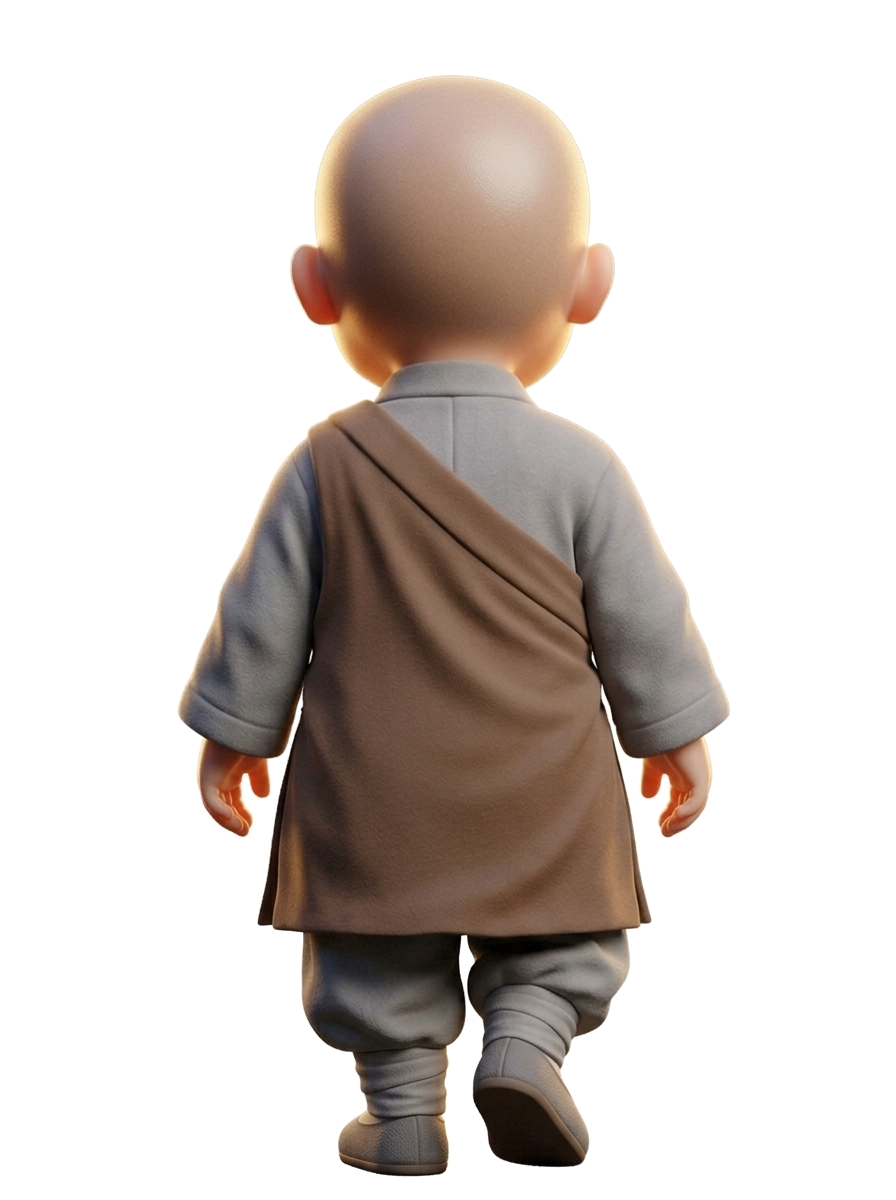
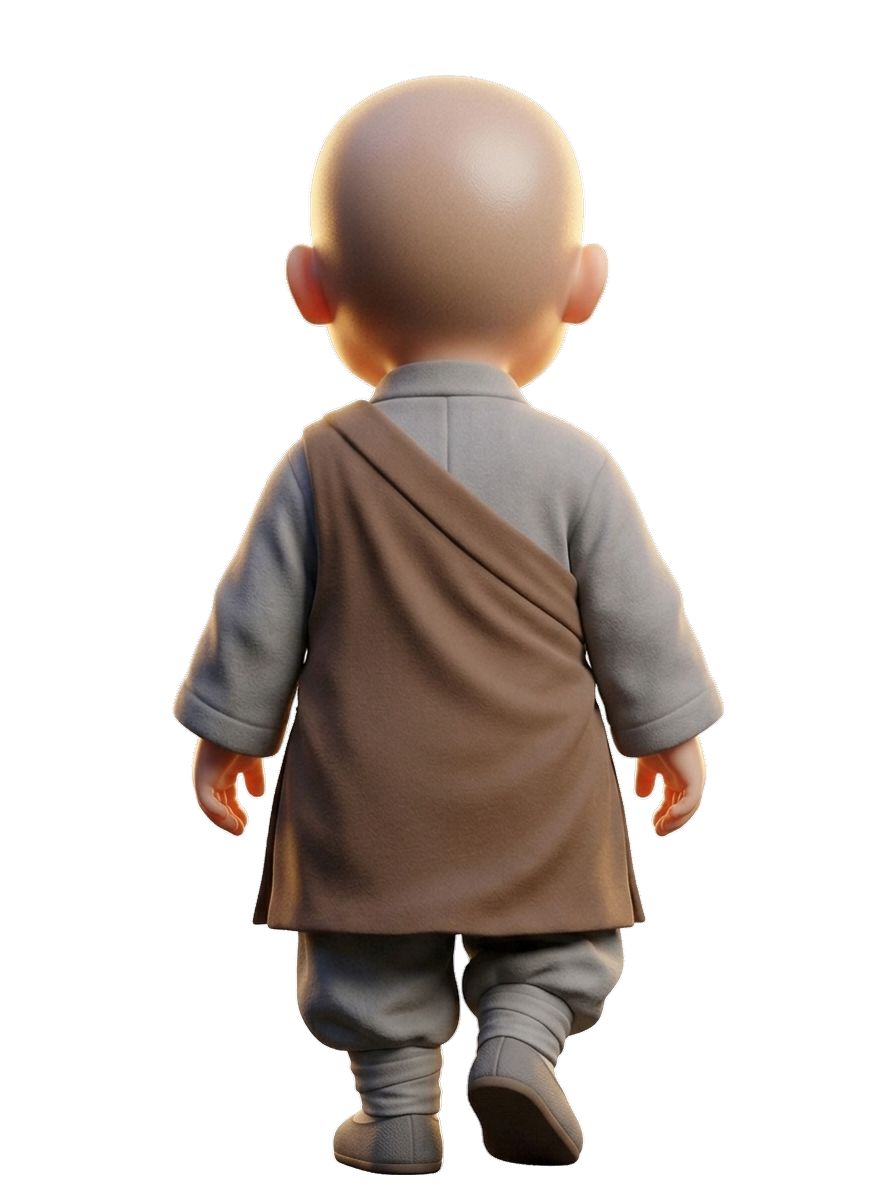
fix: authentic walking cycle with natural swinging arms and alternating legs

diff --git a/src/components/Meditate/SowonsaSanctuaryModal.jsx b/src/components/Meditate/SowonsaSanctuaryModal.jsx
@@ -368,24 +368,24 @@ export default function SowonsaSanctuaryModal({ isOpen, onClose, onOpenLantern, 
     }
 
     // 🎬 대웅전 입장 시퀀스:
-    // 0~3.4s: 왼발-오른발을 번갈아 사뿐사뿐 내딛으며 대청마루에서 걸어 들어오기 (walkFrame 550ms 평온한 보행 호흡)
-    // 3.4~5.6s: 방석 앞에 서서 삼존불 전 정중히 합장 반배 올리기
-    // 5.6s+: 비단 방석에 가부좌 틀고 착석 완료
+    // 0~3.2s: 왼발-오른발과 양팔을 번갈아 흔들며 대청마루에서 걸어 들어오기 (walkFrame 480ms 자연스러운 보행 호흡)
+    // 3.2~5.4s: 방석 앞에 서서 삼존불 전 정중히 합장 반배 올리기
+    // 5.4s+: 비단 방석에 가부좌 틀고 착석 완료
     setEntranceStep('entering')
     setWalkFrame(0)
 
     const walkTimer = setInterval(() => {
       setWalkFrame(f => (f === 0 ? 1 : 0))
-    }, 550)
+    }, 480)
 
     const tHapjang = setTimeout(() => {
       clearInterval(walkTimer)
       setEntranceStep('hapjang')
-    }, 3400)
+    }, 3200)
 
     const tSeated = setTimeout(() => {
       setEntranceStep('seated')
-    }, 5600)
+    }, 5400)
 
     return () => {
       clearInterval(walkTimer)
